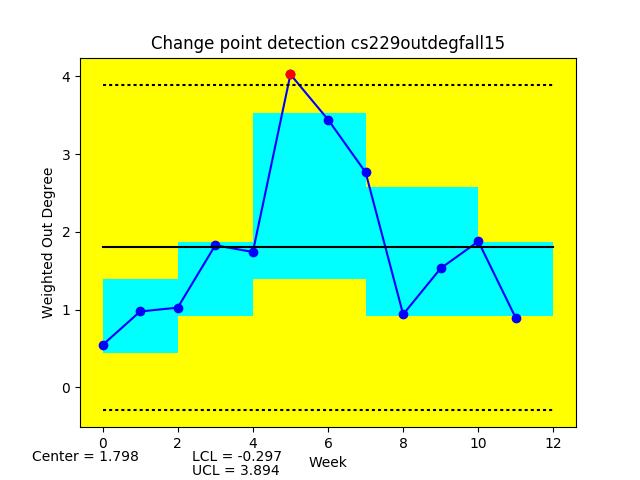
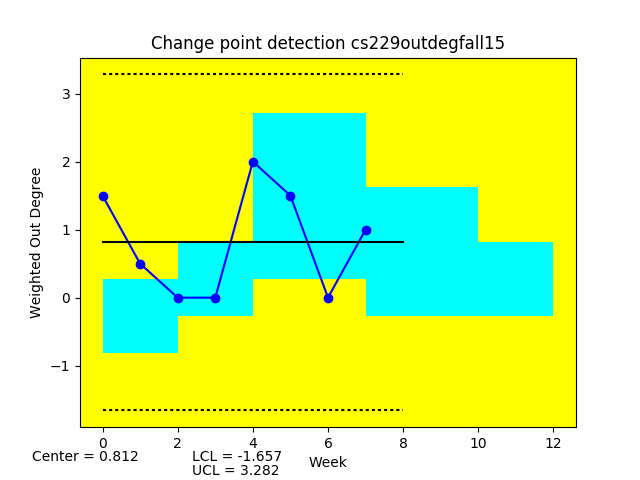
Set file back to CS229-fall15; set num of bootstraps back to 1000. A few comments.

diff --git a/src/change_point_detection.py b/src/change_point_detection.py
@@ -52,6 +52,9 @@ class ChangePointModel(object):
         #print 'S_diff',S_diff
         found_critical_point=False
         num_small_bootstrap_diff = 0
+        # Collect the bootstrap-cusum diffs
+        # into an array so they can be plotted
+        # if caller requested:
         saved_S0_diffs = []
         for cusum in bootstrap_cusum:
             S0_max = np.amax(cusum, axis=0)
@@ -64,7 +67,7 @@ class ChangePointModel(object):
         if 100*num_small_bootstrap_diff/float(B) >= 90: 
             found_critical_point=True
 
-        if plot and found_critical_point:
+        if plot:
             plt.clf()
             #best_bootstraps = [bootstrap_cusum[i] for i in S0_diff.argsort()[-5:][::-1]]
             best_bootstraps = [bootstrap_cusum[i] for i in np.array(saved_S0_diffs).argsort()[-5:][::-1]]
@@ -119,8 +122,7 @@ class ChangePointModel(object):
         print ts
         return ts.index(max_cusum_abs_value)
 
-    #*****def run(self, ts, name=None, B=1000, plot=False):
-    def run(self, ts, name=None, B=10000, plot=False):
+    def run(self, ts, name=None, B=1000, plot=False):
         N = len(ts)
 
         if len(ts)>1:
@@ -188,6 +190,7 @@ if __name__ == "__main__":
           0.007966075694506278, 0.0033839897207213697]
     '''
     file = '../stats/cs229/fall15/top_statistics_student.csv'
+    #file = '../stats/cultural_heritage/fall16/top_statistics_student.csv'
     reader = csv.DictReader(open(file,'r'))
     ts = [float(row['Weighted Out Degree']) for row in reader]
     if ts[0] != 0:
@@ -198,9 +201,12 @@ if __name__ == "__main__":
     model = ChangePointModel()
     #model.run(diffs)
     
+    # Make up a name that the plot routine will be able to
+    # parse into a plot destination chart when setting
+    # plot=True in the call to run()
     name = '/tmp/cs229Fall15.png'
     print('File will be in: ../figures/'+name.split('/')[0]+'/Cusum_'+name.split('/')[1]+'.png')
-    model.run(diffs, name=name,  plot=True)
-    #model.run(ts,name='cs221fallsomething',plot=True)
+    
+    model.run(diffs, name=name,  plot=False)
     model.plot(diffs,'../figures/cs229/'+'changepoint_'+'outdegfall15.png','Weighted Out Degree')
     print sorted(model.indices)
